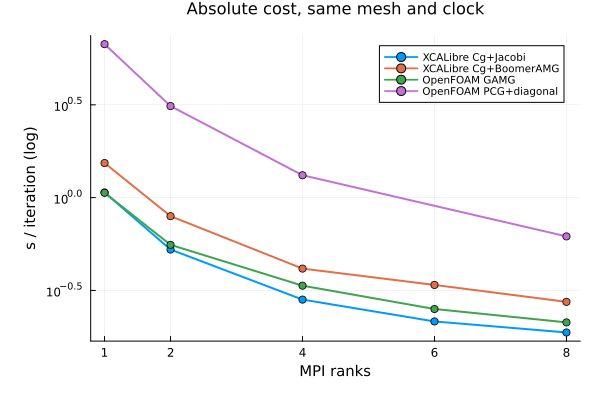
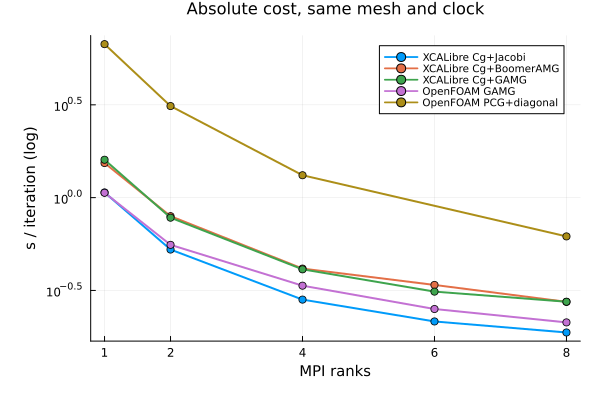
dev record: measure GAMG, the coefficient-only update, and AMG rank invariance
GAMG has the flattest scaling curve of every configuration tested (103/97/86/73%
at n=2/4/6/8) at the same cost as BoomerAMG, though both remain 1.46x slower than
Cg+Jacobi on this case (D31).

The coefficient-only update is worth 2.69x, more than BoomerAMG's freeze buys at
2.0x, and without ever applying a stale preconditioner (D32). BoomerAMG's default
reuse=10 leaves about 6% against reuse=25.

AMG breaks rank invariance because the hierarchy is built from the local partition:
the residual spread across rank counts is 0.3% for GAMG and 2.4x for BoomerAMG,
against 15 significant figures of agreement under Jacobi (D33).

diff --git a/SCALING_SUMMARY.md b/SCALING_SUMMARY.md
@@ -122,32 +122,72 @@ meaningless.
 
 ![efficiency](dev/telemetry/plots/efficiency.png)
 
-## 7. Remedies tested
+## 7. Preconditioners and remedies tested
 
-| change | n=8 s/iter | verdict |
+All at 499,503 cells, clock pinned. Efficiency in brackets.
+
+| n | Cg+Jacobi | Cg+BoomerAMG | Cg+GAMG | OpenFOAM GAMG |
+|---|---:|---:|---:|---:|
+| 1 | 1.0665 (100%) | 1.5359 (100%) | 1.6000 (100%) | 1.0620 (100%) |
+| 2 | 0.5251 (102%) | 0.7945 (97%) | 0.7797 (**103%**) | 0.5567 (95%) |
+| 4 | 0.2822 (94%) | 0.4146 (93%) | 0.4108 (**97%**) | 0.3354 (79%) |
+| 6 | 0.2152 (83%) | 0.3385 (76%) | 0.3116 (**86%**) | 0.2511 (71%) |
+| 8 | **0.1877** (71%) | 0.2744 (70%) | 0.2749 (**73%**) | 0.2127 (62%) |
+
+**Cg+Jacobi is the fastest configuration on this case; GAMG has the flattest scaling curve.**
+GAMG beats BoomerAMG at every rank count on efficiency at identical cost, and beats Jacobi's
+curve too — but is still 1.46x slower in absolute terms, because 500k cells of laminar BFS is
+small and well conditioned enough that no AMG setup amortises.
+
+### Hierarchy reuse: freeze versus coefficient update
+
+The two AMG options differ fundamentally in what "reuse" means, and the difference is measurable.
+
+| configuration | n=4 s/iter | what happens between solves |
 |---|---:|---|
-| Cg + Jacobi (baseline) | 0.1877 | - |
-| Cg + BoomerAMG (hypre) | 0.2744 | **46% slower**, scaling no flatter (70.0% vs 71.0%) |
-| PipeCG + Jacobi | 0.2200 | **17% slower** |
+| GAMG, `reuse_interpolation=true` (default) | **0.4108** | aggregation and P kept; RAP and smoothers recomputed from the current matrix |
+| GAMG, `reuse_interpolation=false` | 1.1060 | full hierarchy rebuild every solve |
+| BoomerAMG, `reuse=1` | 0.8416 | full hypre rebuild every solve |
+| BoomerAMG, `reuse=5` | 0.4671 | frozen 4 solves in 5 |
+| BoomerAMG, `reuse=10` (default) | 0.4216 | frozen 9 solves in 10 |
+| BoomerAMG, `reuse=25` | **0.3951** | frozen 24 solves in 25 |
+| BoomerAMG, `reuse=50` | 0.4260 | staleness now costs more than the rebuild saves |
 
-Neither remedy helps on this case.
+**The coefficient-only update is worth 2.69x** and is the better mechanism: it beats BoomerAMG's
+freeze (2.0x) while never applying a stale preconditioner. `BoomerAMG(reuse=N)` calls
+`KSPSetReusePreconditioner`, which skips `PCSetUp` entirely — those N-1 solves use operators
+built from an older matrix. PETSc's `PCHYPRE` exposes no numeric-only re-setup, so freeze or
+rebuild is all that is reachable for hypre. The BoomerAMG default of 10 leaves about 6% against 25.
 
-**BoomerAMG** is slower at every rank count (1.5359 vs 1.0665 s/iter at n=1) because 500k cells
-of laminar BFS is small and well-conditioned enough that the setup never pays for itself. Its
-incremental 6->8 efficiency is better (93% against 86%), consistent with fewer Krylov iterations
-meaning fewer reductions, but not nearly enough to overcome the per-iteration cost. AMG should be
-revisited on a stiffer problem, not dismissed.
+### Rank invariance
 
-**Pipelined CG** overlaps the reduction with computation via non-blocking `MPI_Iallreduce`. It
-took effect (`KSP=pipecg` confirmed in the solver log) and cost 17%: the extra work per iteration
-needed to enable the overlap exceeds the barrier wait it hides at this scale.
+| preconditioner | pressure residual after 100 iterations, n=1 to n=8 |
+|---|---|
+| Jacobi | identical to 15 significant figures |
+| GAMG | 0.3% spread |
+| BoomerAMG | **2.4x spread** (7.85e-5 to 1.89e-4) |
+
+An AMG hierarchy is built from the local partition, so it changes with rank count; the answer
+converges to the same place but by a different path. This is why the scaling attribution work
+used Cg+Jacobi throughout. It is a property to document, not a defect — but it does mean AMG
+runs are not reproducible across rank counts, and BoomerAMG's freeze schedule compounds it.
+
+### Pipelined CG
+
+`PipeCG` + Jacobi costs 0.2200 s/iter at eight ranks against `Cg`'s 0.1877, 17% slower, with
+`KSP=pipecg` confirmed in the solver log. The extra per-iteration work needed to enable the
+reduction overlap exceeds the barrier wait it hides at this scale.
 
 ![absolute cost](dev/telemetry/plots/absolute_cost.png)
 
 ## 8. Correctness
 
-Residuals are identical across every rank count to 15 significant figures on both meshes, in
-every configuration tested. Partitioning changes nothing about the answer.
+With `Jacobi`, residuals are identical across every rank count to 15 significant figures on both
+meshes. Partitioning changes nothing about the answer.
+
+With either AMG preconditioner this no longer holds exactly, because the hierarchy is built from
+the local partition (see section 7). The solutions converge to the same place by different paths;
+the spread is 0.3% for GAMG and 2.4x for BoomerAMG after a fixed 100 iterations.
 
 ## 9. What this means in practice
 
@@ -159,6 +199,11 @@ every configuration tested. Partitioning changes nothing about the answer.
   its clock under full load.
 - The open optimisation is the reduction count, not bandwidth and not halo exchange: the Krylov
   solves issue roughly 75 reductions per outer iteration.
+- Use `Cg() + Jacobi()` on cases of this size and conditioning. Reach for `GAMG()` rather than
+  `BoomerAMG()` when AMG is warranted: same cost, better scaling, a real coefficient-only update
+  instead of a freeze, and far better rank invariance.
+- Our AMG is the weak component, not the distributed module: OpenFOAM's GAMG beats our BoomerAMG
+  by 1.24x to 1.45x, while our Cg+Jacobi beats OpenFOAM's GAMG by 6% to 16% above one rank.
 
 ## 10. Corrections to earlier findings
 

diff --git a/dev/phaseRoadmap.md b/dev/phaseRoadmap.md
@@ -15,7 +15,7 @@ The distributed module becomes an ordinary, documented XCALibre feature: it inst
 - [x] **P1-M5 - distributed dependencies become optional** Decide, on a measurement rather than a principle, whether MPI and Metis stay hard dependencies. The cost to a serial user is measured first: install size, precompilation and load time. Only if that cost is material does the module's MPI surface move behind an extension. Exit: the measurement recorded and the decision taken, plus the refactor if it is warranted. Serves R4. CLOSED WITHOUT THE REFACTOR: the cost is 0.17 s of an 0.809 s load and 27 MB, so the dependencies stay and R4 is amended to a bounded measured cost (D18).
 - [x] **P1-M6 - documentation and messages** A distributed user-documentation page, a CHANGELOG entry for the feature, corrected diagnostic messages that point at the documentation, and the documented scope of what is and is not supported. Exit: documentation builds, scope matches the spec's non-requirements. Serves R10. DELIVERED: the distributed page now covers stock-binary requirements, the rank-uniform mesh call, `mpiexecjl`, the supported and unsupported scope, and what to expect of parallel performance; the CHANGELOG records the feature; the hypre and GPU-solve errors point at the documentation.
 
-- [ ] **P1-M7 - preconditioner API, informed by the scaling measurements** The distributed preconditioner API says what it does to the hierarchy, and the default is the one that wins. Open questions this milestone answers, in order: (i) `reuse` names a FREEZE, not a coefficient update (D28), and a user reading it expects the latter - rename it, and separate it from GAMG's `reuse_interpolation`, which means something different again; (ii) the default `reuse=10` leaves about 6% against `reuse=25` (D28) - retune or document; (iii) GAMG has never been benchmarked and is the option whose update semantics match a fixed mesh (D29) - measure it against BoomerAMG and Jacobi before choosing a documented distributed default; (iv) OpenFOAM's GAMG beats our BoomerAMG by 1.24x to 1.45x (D30) - establish whether that is configuration or implementation. Exit: a measured recommendation for the distributed pressure preconditioner, the naming settled, and the docstrings matching the semantics. Serves R5, R10. Expected 4 steps.
+- [ ] **P1-M7 - preconditioner API, informed by the scaling measurements** The distributed preconditioner API says what it does to the hierarchy, and the default is the one that wins. Open questions this milestone answers, in order: (i) `reuse` names a FREEZE, not a coefficient update (D28), and a user reading it expects the latter - rename it, and separate it from GAMG's `reuse_interpolation`, which means something different again; (ii) the default `reuse=10` leaves about 6% against `reuse=25` (D28) - retune or document; (iii) GAMG is now measured (D31, D32): best scaling curve of any configuration, same cost as BoomerAMG, a real coefficient-only update worth 2.69x, and far better rank invariance - make it the documented AMG choice and say why; (iv) OpenFOAM's GAMG beats our BoomerAMG by 1.24x to 1.45x (D30) - establish whether that is configuration or implementation. Also (v) AMG breaks rank invariance and Jacobi does not (D33) - document it, since a user comparing runs at different rank counts will otherwise read it as a bug. Exit: a measured recommendation for the distributed pressure preconditioner, the naming settled, and the docstrings matching the semantics. Serves R5, R10. Expected 4 steps.
 
 ## Flagged for later
 

diff --git a/dev/decisions.md b/dev/decisions.md
@@ -28,3 +28,6 @@
 - 2026-09-18 D28 `BoomerAMG(reuse=N)` FREEZES the preconditioner, it does not update coefficients - why: `KSPSetReusePreconditioner(PETSC_TRUE)` skips `PCSetUp` entirely, so N-1 solves apply a stale hierarchy and the Nth does a full hypre rebuild; freezing is worth 2x (0.8416 s/iter at reuse=1 against 0.4216 at reuse=10, n=4) and the optimum is near reuse=25 at 0.3951, so the default leaves about 6% unclaimed
 - 2026-09-18 D29 GAMG, not BoomerAMG, is the preconditioner whose update semantics match a fixed mesh - why: `reuse_interpolation=true` keeps aggregation and prolongation and recomputes only RAP and the smoothers from the current matrix, which is the coefficient-only update a non-refining mesh permits, whereas PETSc's PCHYPRE exposes only freeze or full rebuild
 - 2026-09-18 D30 our AMG is the weak configuration, not the distributed module - why: OpenFOAM's GAMG beats XCALibre's BoomerAMG by 1.24x to 1.45x at every rank count, while XCALibre's Cg+Jacobi beats OpenFOAM's GAMG by 6% to 16% at two ranks and above, so best-config against best-config XCALibre leads and AMG-against-AMG it does not
+- 2026-09-18 D31 GAMG has the best scaling curve of every configuration tested and costs the same as BoomerAMG - why: 102.6/97.4/85.6/72.8% at n=2/4/6/8 against BoomerAMG's 96.7/92.6/75.6/70.0 and Jacobi's 101.6/94.5/82.6/71.0, at 0.2749 s/iter against BoomerAMG's 0.2744 at eight ranks; it is still 1.46x slower in absolute terms than Cg+Jacobi on this case
+- 2026-09-18 D32 the coefficient-only update is worth 2.69x, more than BoomerAMG's freeze buys, and without the staleness - why: GAMG costs 0.4108 s/iter at four ranks with `reuse_interpolation` on and 1.1060 with it off, against BoomerAMG's 2.0x from freezing (0.8416 at reuse=1 to 0.4216 at reuse=10), so keeping the hierarchy and recomputing RAP beats both rebuilding and freezing
+- 2026-09-18 D33 AMG breaks rank invariance and Jacobi does not, which is a documented consequence rather than a defect - why: after 100 SIMPLE iterations the pressure residual spans 2.4x across rank counts under BoomerAMG (7.85e-5 to 1.89e-4) and 0.3% under GAMG, against agreement to 15 significant figures under Jacobi, because an AMG hierarchy is built from the local partition and the partition changes with rank count

diff --git a/dev/activeContext.md b/dev/activeContext.md
@@ -1,12 +1,12 @@
 # Active context - distributed module release polish
 LOAD: dev/activeContext.md, dev/spec.md, dev/gotchas.md, dev/architecture.md, dev/roadmap.md, dev/phaseRoadmap.md
-updated: 2026-09-18T02:40:00+01:00
+updated: 2026-09-18T03:05:00+01:00
 STATE: BUILDING
 STEP: P1-M7 preconditioner API, opened on the scaling findings (D25-D30)
 HEAD: e67b898f
 BRANCH: HM/distributed-draft
 GATE: julia --project=. -e 'using Pkg; Pkg.test()'
-resume: read the GAMG sweep in the scratchpad gamg.log, fold it into scaling.csv and SCALING_SUMMARY.md, then take P1-M7; the serial suite still needs one green rerun after the `Random` fix (D24); do NOT open a PR or close the phase
+resume: take P1-M7 step 1, the `reuse` rename, on the measured recommendation that GAMG is the AMG to document (D31-D33); the serial suite still needs one green rerun after the `Random` fix (D24); do NOT open a PR or close the phase
 ## position
 M1-M6 closed; M3 was reopened and its attribution corrected (D19-D23). M7 is OPEN: the
 preconditioner API, opened because the measurements exposed that `reuse` freezes rather than
